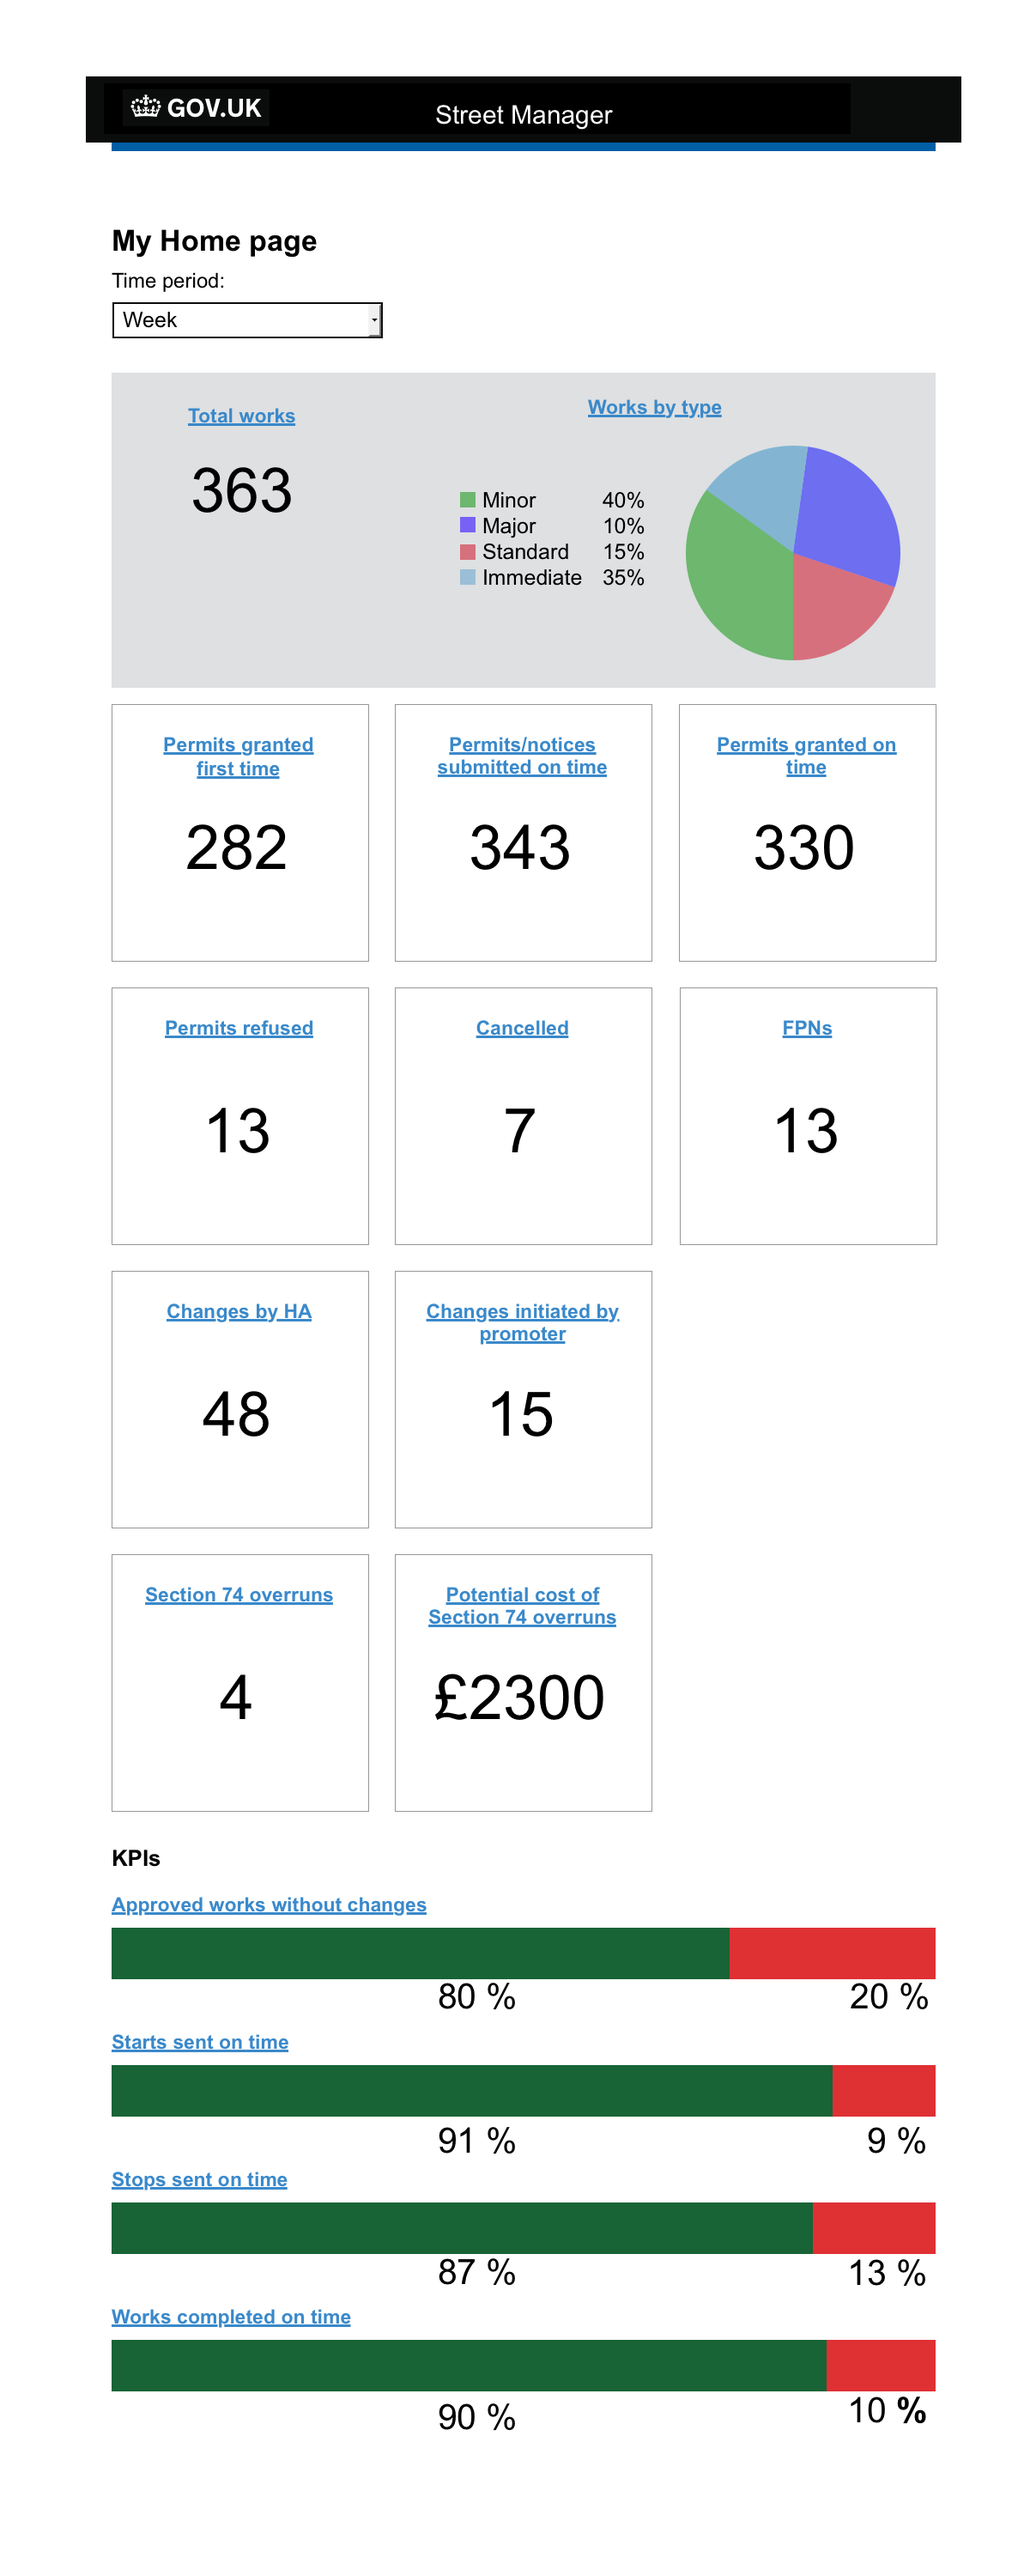
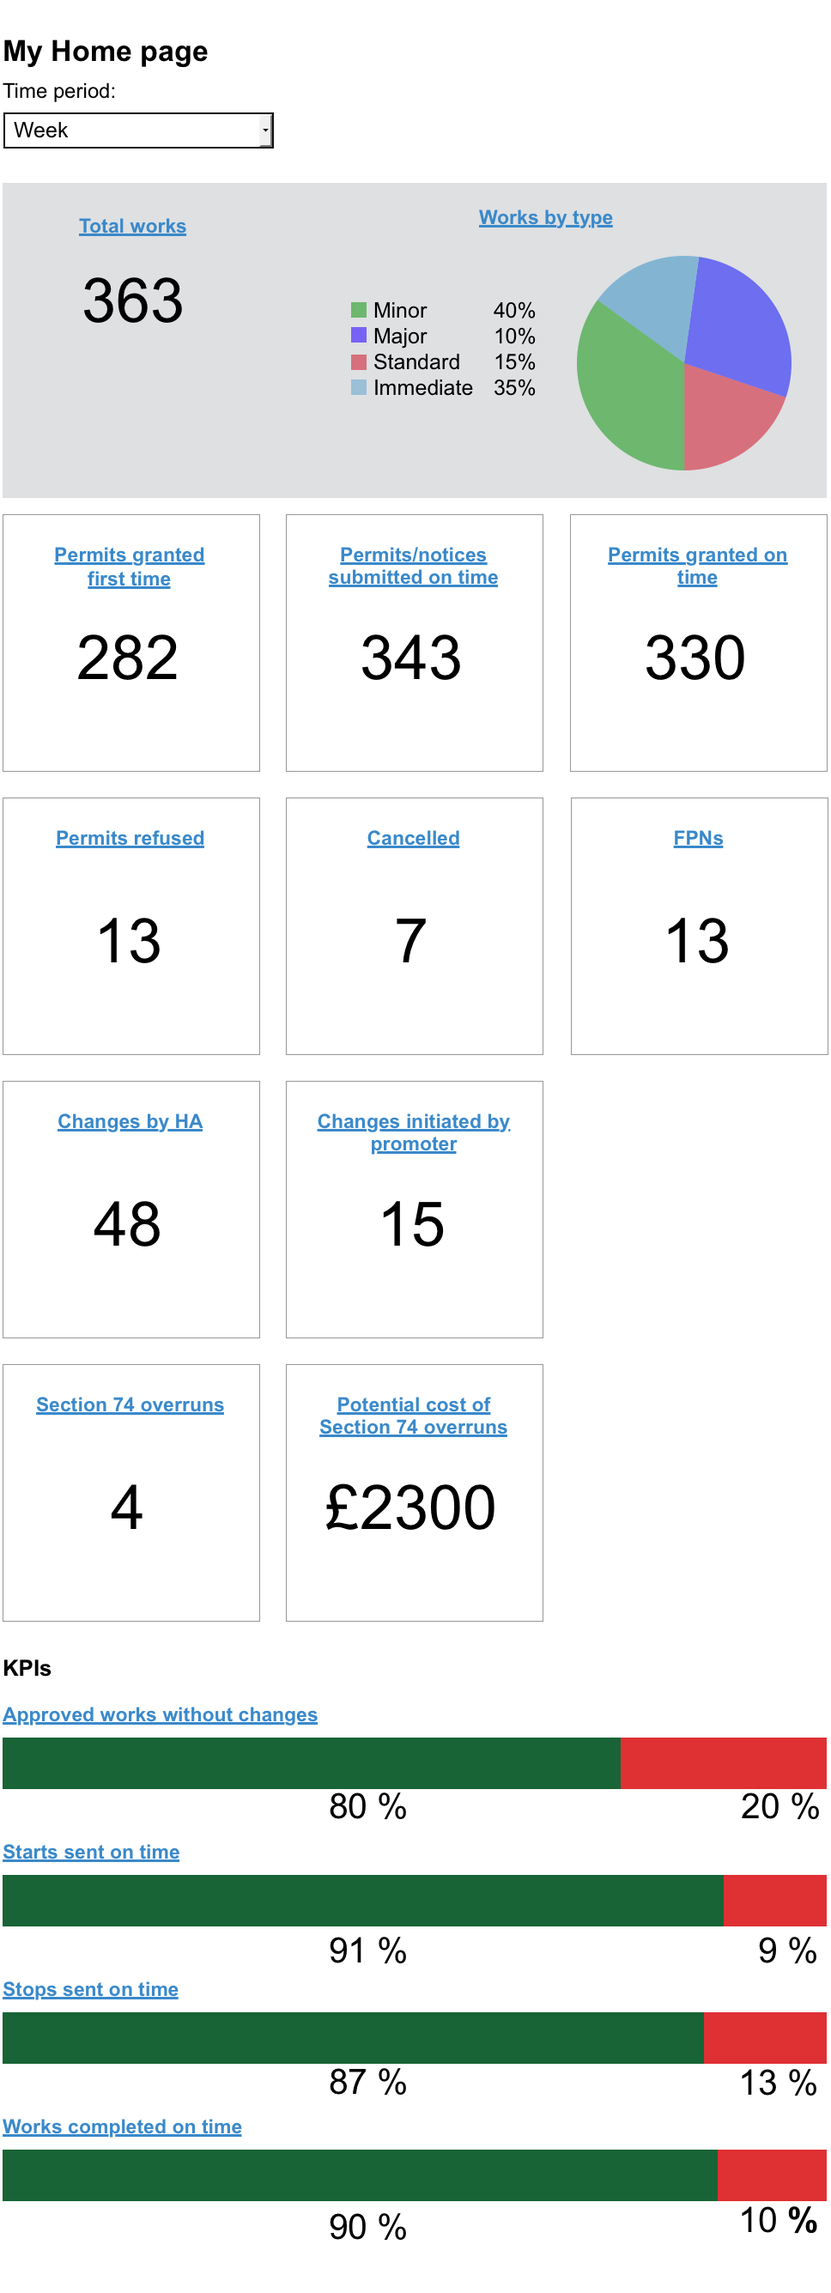
Updated performance dashboard images and added these to demo screens. Linked into main dashboard page.

diff --git a/app/views/alpha/v5-0/promoter-planner/performance-dashboard.html b/app/views/alpha/v5-0/promoter-planner/performance-dashboard.html
@@ -1,3 +1,16 @@
-<html>
-<img src='/public/images/performance/promo-dash-v2.png' alt='Performance Dashboard' style="border: 0px"/>
-</html>
+{% extends "layout.html" %}
+
+{% block page_title %}
+Performance dashboard
+{% endblock %}
+
+{% block content %}
+
+<main id="content" role="main">
+
+    {% include "includes/phase_banner_alpha.html" %}
+
+    <img src='/public/images/performance/promo-dash-v2.png' alt='Performance Dashboard'/>
+</main>
+
+{% endblock %}

diff --git a/app/views/alpha/v5-0/ha-officer/dashboard.html b/app/views/alpha/v5-0/ha-officer/dashboard.html
@@ -64,7 +64,7 @@
                         <div class="box-metrics" style="height: 200px;">
                             <h2 class="heading-medium">Performance dashboard</h2>
                             <br/>
-                            <p><a href="#">View</a></p>
+                            <p><a href="performance-dashboard.html">View</a></p>
                         </div>
                     </div>
                     <div class="column-one-third">

diff --git a/app/views/alpha/v5-0/promoter-planner/dashboard.html b/app/views/alpha/v5-0/promoter-planner/dashboard.html
@@ -80,7 +80,7 @@
                         <div class="box-metrics" style="height: 200px;">
                             <h2 class="heading-medium">Performance dashboard</h2>
                             <br/>
-                            <p><a href="#">View</a></p>
+                            <p><a href="performance-dashboard.html">View</a></p>
                         </div>
                     </div>
                 </div>

diff --git a/app/views/alpha/v5-0/ha-officer/performance-dashboard.html b/app/views/alpha/v5-0/ha-officer/performance-dashboard.html
@@ -1,0 +1,16 @@
+{% extends "layout.html" %}
+
+{% block page_title %}
+Performance dashboard
+{% endblock %}
+
+{% block content %}
+
+<main id="content" role="main">
+
+    {% include "includes/phase_banner_alpha.html" %}
+
+    <img src='/public/images/performance/ha-dashboard-v2.png' alt='Performance Dashboard'/>
+</main>
+
+{% endblock %}
